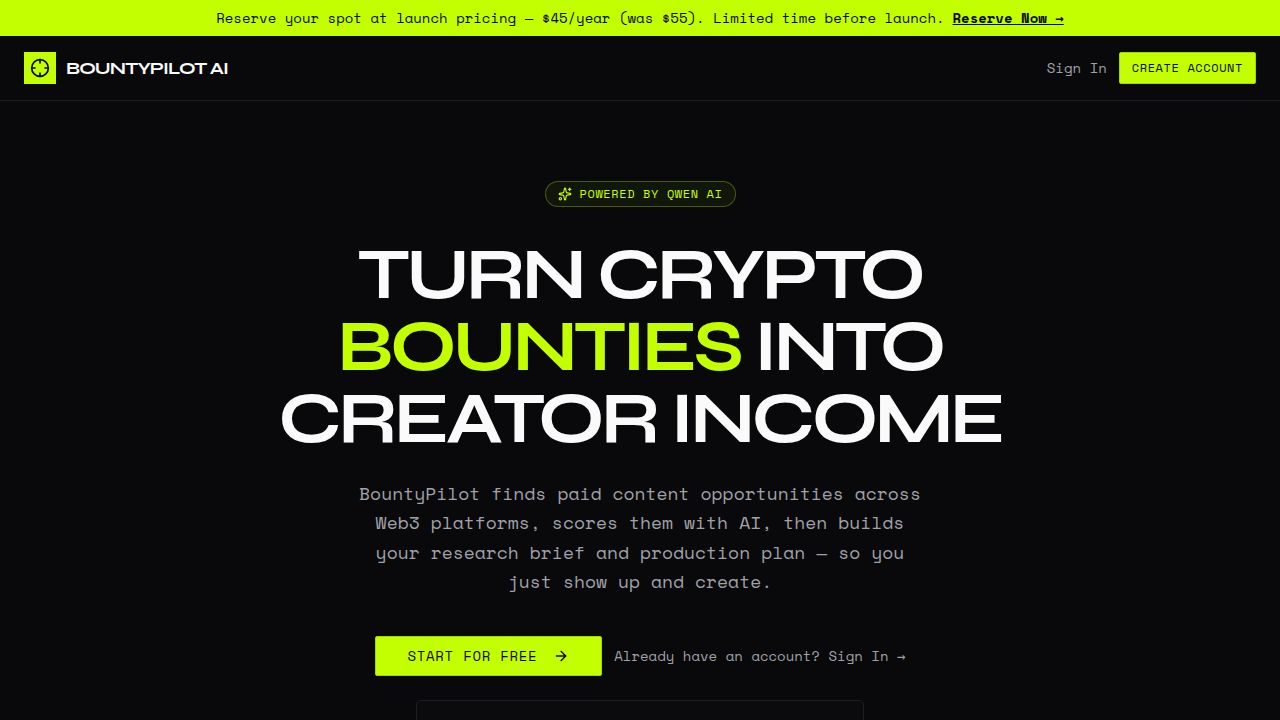
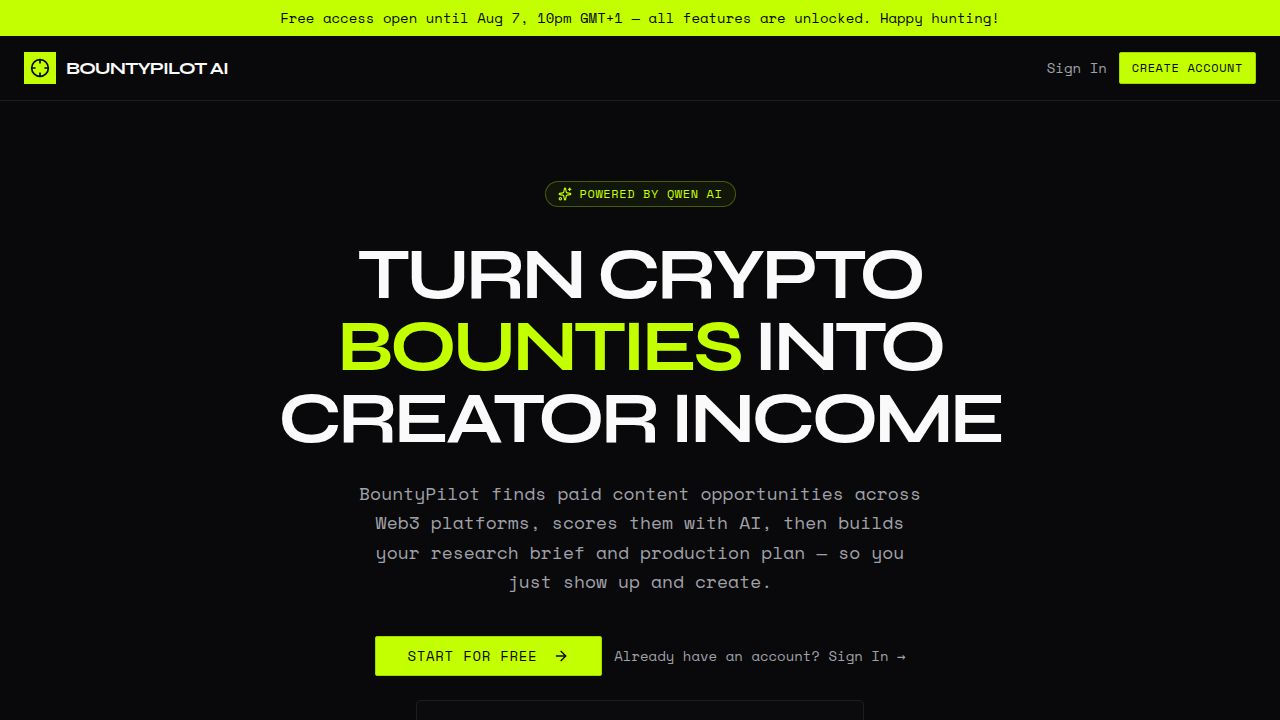
Add organizer and team information to bounty detail pages
Remove unused 'Search' icon import from bounty detail page component.

Replit-Commit-Author: Agent
Replit-Commit-Session-Id: df304dcf-21c7-43f4-8152-65542cd7602a
Replit-Commit-Checkpoint-Type: full_checkpoint
Replit-Commit-Event-Id: b34f4bfa-06eb-41e8-872a-495b9cec6de6
Replit-Commit-Screenshot-Url: https://storage.googleapis.com/screenshot-production-us-central1/a90a2026-88f4-4e3b-bbf7-c8312a9482d0/df304dcf-21c7-43f4-8152-65542cd7602a/QaOXpJv
Replit-Helium-Checkpoint-Created: true

Changed region(s): [[0.1562, 0.0, 0.8438, 0.0611]]

diff --git a/artifacts/bountypilot/src/pages/bounty-detail.tsx b/artifacts/bountypilot/src/pages/bounty-detail.tsx
@@ -21,7 +21,7 @@ import { Card, CardContent, CardHeader, CardTitle } from "@/components/ui/card";
 import { Skeleton } from "@/components/ui/skeleton";
 import { Button } from "@/components/ui/button";
 import { Input } from "@/components/ui/input";
-import { ArrowLeft, ExternalLink, RefreshCw, Loader2, CheckCircle, AlertCircle, Sparkles, Flag, X, Users, Linkedin, Search, Twitter, Globe } from "lucide-react";
+import { ArrowLeft, ExternalLink, RefreshCw, Loader2, CheckCircle, AlertCircle, Sparkles, Flag, X, Users, Linkedin, Twitter, Globe } from "lucide-react";
 import { AIFeatureGate } from "@/components/trial-gate";
 
 // ── Team helpers ─────────────────────────────────────────────